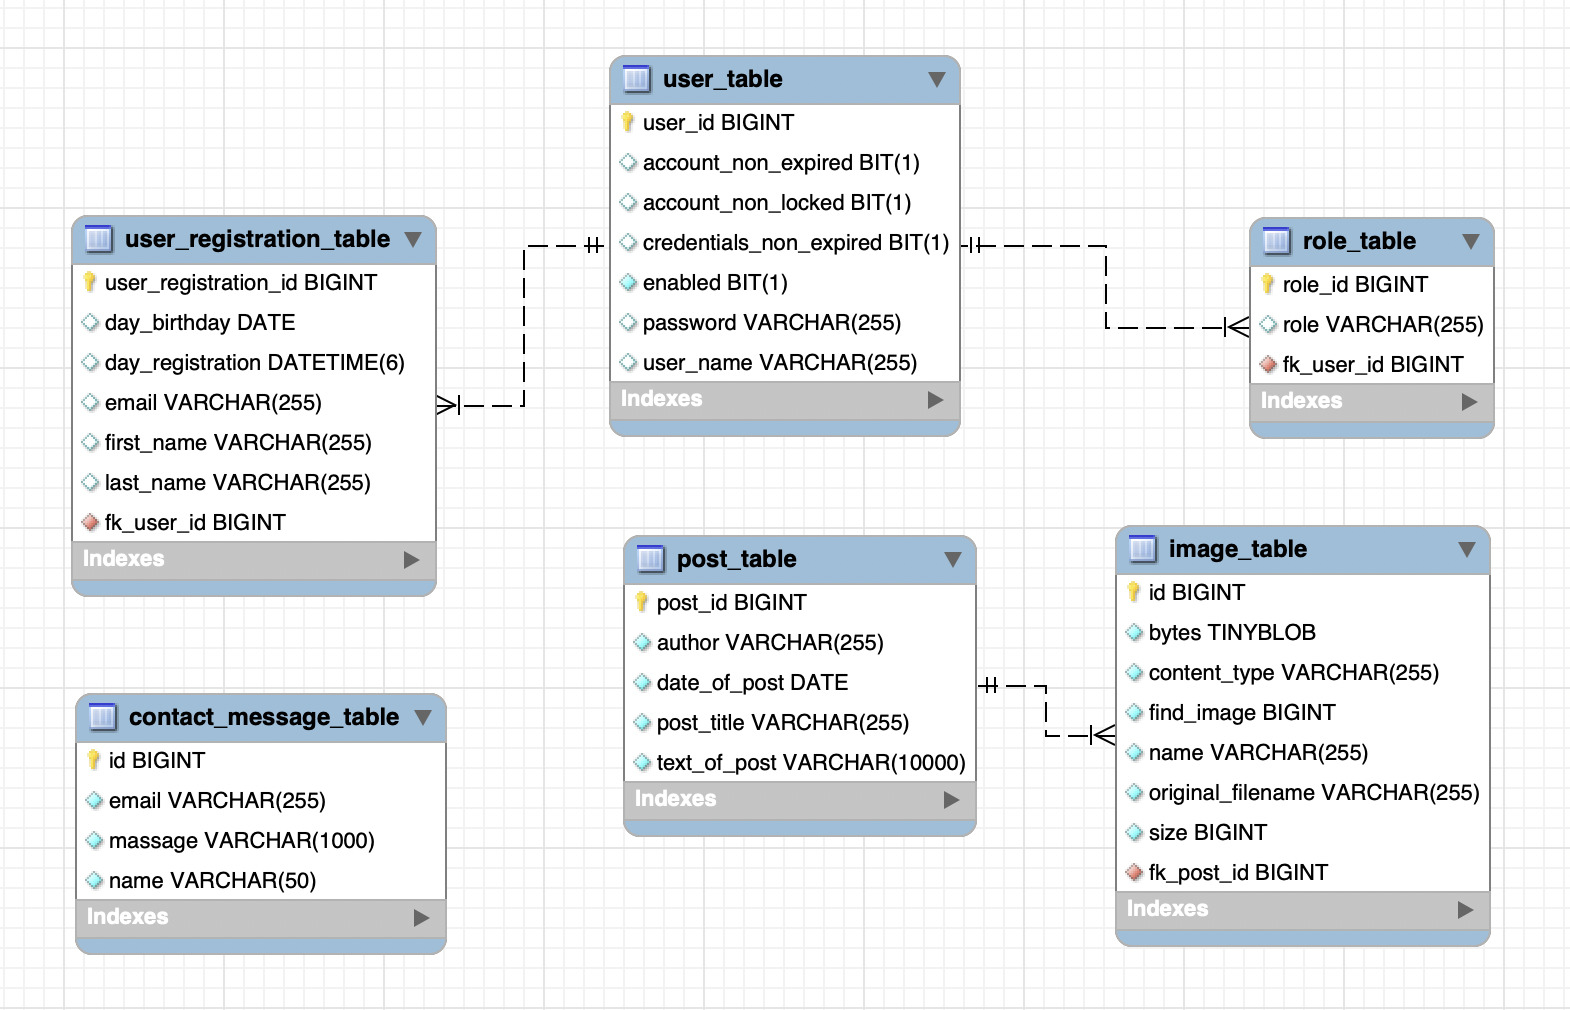
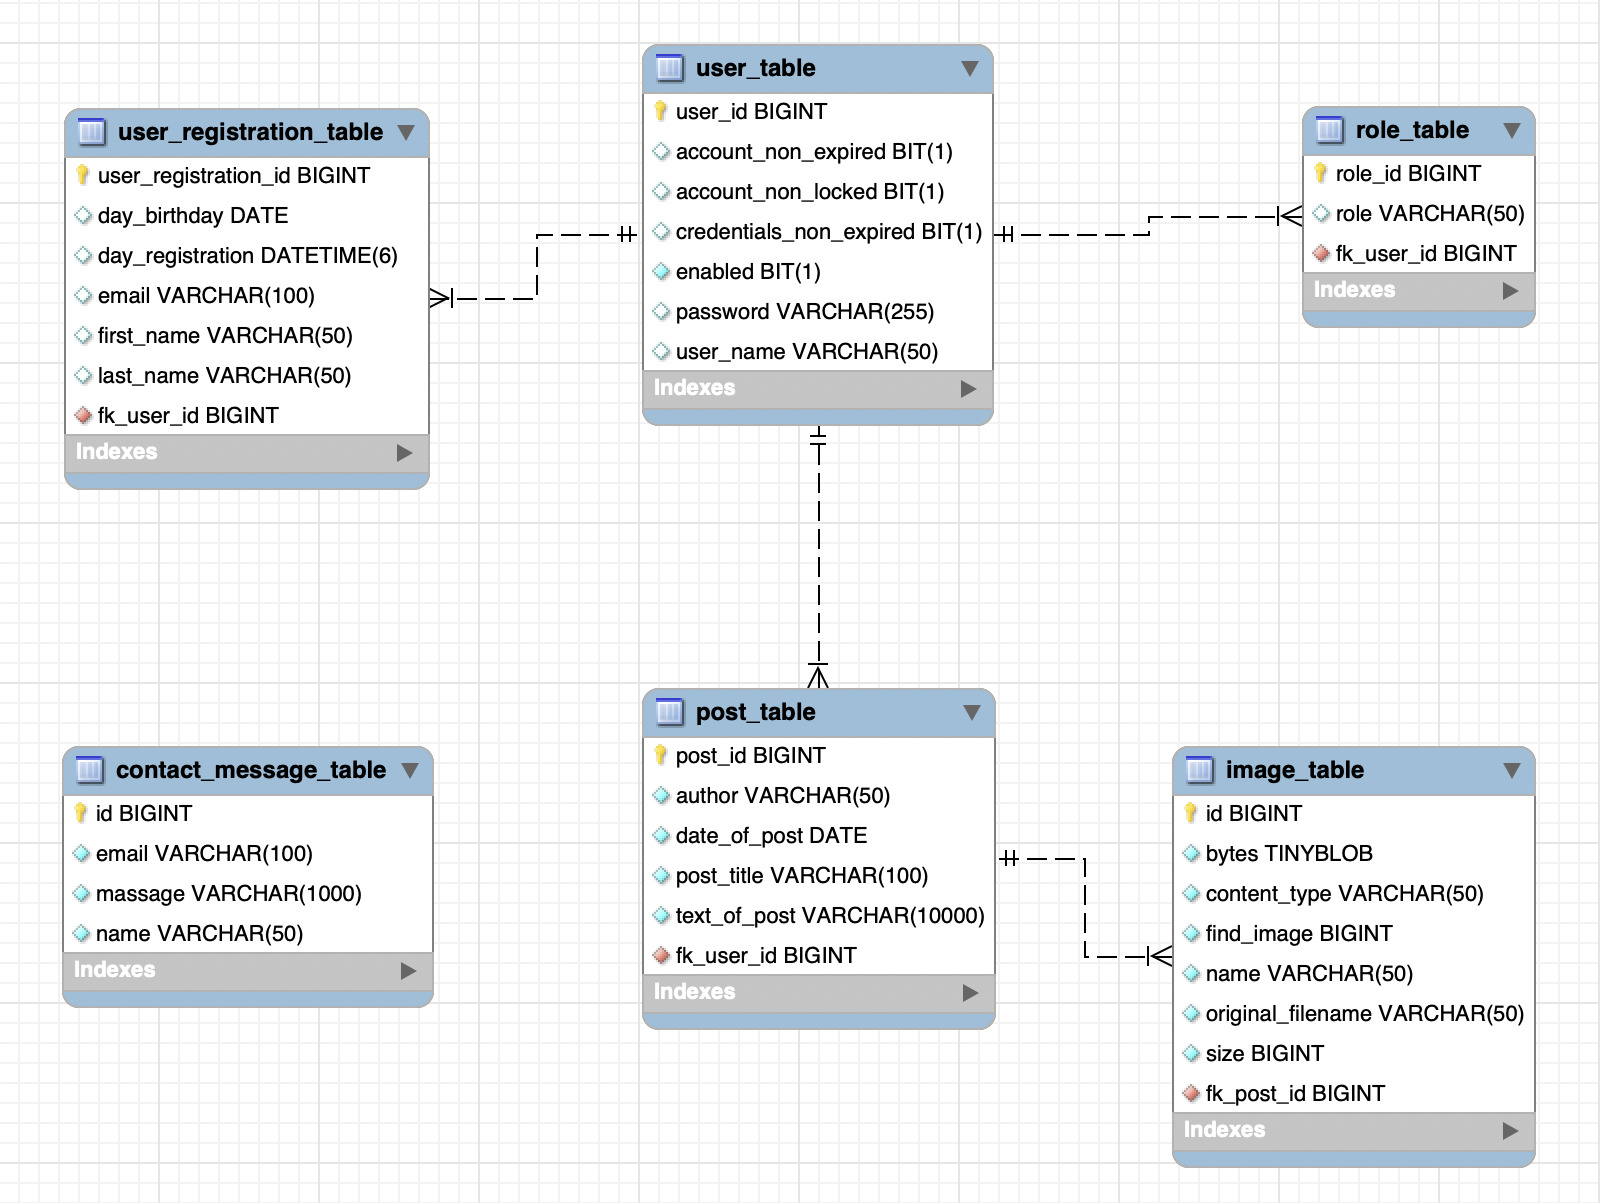
user_table <--> post_table, refactoring the project

diff --git a/src/main/resources/static/css/adminHomePage.css b/src/main/resources/static/css/adminHomePage.css
@@ -54,6 +54,7 @@ td {
 
 .image {
     max-width: 10vw;
+    min-width: 10vw;
 }
 
 /*--------------------------------------------------- add delete role */

diff --git a/src/main/resources/static/css/userHomePage.css b/src/main/resources/static/css/userHomePage.css
@@ -71,6 +71,7 @@ button {
 
 .image {
     max-width: 10vw;
+    min-width: 10vw;
 }
 
 table {

diff --git a/src/main/java/org/itstep/diploma/blog/post/service/PostServiceImp.java b/src/main/java/org/itstep/diploma/blog/post/service/PostServiceImp.java
@@ -1,10 +1,12 @@
-package org.itstep.diploma.post.service;
+package org.itstep.diploma.blog.post.service;
 
 import lombok.RequiredArgsConstructor;
+import org.itstep.diploma.blog.post.dto.PostDto;
+import org.itstep.diploma.blog.post.entity.Post;
+import org.itstep.diploma.blog.post.repository.PostRepository;
+import org.itstep.diploma.configs.security.entity.User;
+import org.itstep.diploma.configs.security.repository.UserRepository;
 import org.itstep.diploma.image.entity.Image;
-import org.itstep.diploma.post.dto.PostDto;
-import org.itstep.diploma.post.entity.Post;
-import org.itstep.diploma.post.repository.PostRepository;
 import org.springframework.security.core.Authentication;
 import org.springframework.stereotype.Service;
 import org.springframework.transaction.annotation.Transactional;
@@ -17,6 +19,7 @@ import java.util.Optional;
 @Service
 @RequiredArgsConstructor
 public class PostServiceImp implements PostService {
+	private final UserRepository userRepository;
 	private final PostRepository postRepository;
 
 	@Transactional
@@ -25,15 +28,22 @@ public class PostServiceImp implements PostService {
 						  PostDto postDto,
 						  Post post,
 						  Image image,
-						  Authentication authentication){
+						  Authentication authentication) {
 		String response;
 		try {
+			Optional<User> optionalUserByUsername = userRepository.findByUsername(authentication.getName());
+			if (optionalUserByUsername.isEmpty()) {
+				response = "YOU MUST RESTART YOUR ACCOUNT PLEASE";
+				return response;
+			}
+			User user = optionalUserByUsername.get();
 			post.setPostTitle(postDto.getPostTitle());
-			post.setAuthor(authentication.getName());
+			post.setAuthor(user.getUsername());
 			post.setTextOfPost(postDto.getTextOfPost());
 			post.setDateOfPost(LocalDate.now());
 
-			postRepository.save(post);
+			user.addPost(post);
+			userRepository.flush();
 
 			image.setName(multipartFile.getName());
 			image.setOriginalFilename(multipartFile.getOriginalFilename());

diff --git a/src/main/java/org/itstep/diploma/configs/security/entity/User.java b/src/main/java/org/itstep/diploma/configs/security/entity/User.java
@@ -4,6 +4,7 @@ import jakarta.persistence.*;
 import lombok.Data;
 import lombok.EqualsAndHashCode;
 import lombok.ToString;
+import org.itstep.diploma.blog.post.entity.Post;
 import org.itstep.diploma.registration.entity.UserRegistration;
 import org.springframework.context.annotation.Scope;
 import org.springframework.security.core.userdetails.UserDetails;
@@ -16,7 +17,7 @@ import java.util.Set;
 @Entity
 @Table(name = "user_table")
 @Data
-@EqualsAndHashCode(exclude = {"id", "authorities", "userRegistration"})
+@EqualsAndHashCode(exclude = {"id", "authorities", "userRegistration", "posts"})
 @ToString
 @Component
 @Scope(scopeName = "prototype")
@@ -25,7 +26,7 @@ public final class User implements UserDetails {
 	@GeneratedValue(strategy = GenerationType.IDENTITY)
 	@Column(name = "user_id")
 	private Long id;
-	@Column(name = "user_name", unique = true)
+	@Column(name = "user_name", length = 50, unique = true)
 	private String username;
 	private String password;
 	@Column(name = "account_non_expired")
@@ -39,6 +40,8 @@ public final class User implements UserDetails {
 	private Set<Role> authorities = new HashSet<>();
 	@OneToOne(mappedBy = "user", orphanRemoval = true, cascade = CascadeType.ALL, fetch = FetchType.LAZY)
 	private UserRegistration userRegistration;
+	@OneToMany(mappedBy = "user", cascade = {CascadeType.PERSIST, CascadeType.MERGE}, fetch = FetchType.LAZY)
+	private Set<Post> posts = new HashSet<>();
 
 	public void addRole(Role... roles) {
 		Arrays.stream(roles).forEach(role -> {
@@ -62,5 +65,15 @@ public final class User implements UserDetails {
 			userRegistration.setUser(null);
 			this.userRegistration = null;
 		}
+	}
+
+	public void addPost(Post post) {
+		posts.add(post);
+		post.setUser(this);
+	}
+
+	public void removePost(Post post) {
+		posts.remove(post);
+		post.setUser(null);
 	}
 }

diff --git a/src/main/java/org/itstep/diploma/blog/post/entity/Post.java b/src/main/java/org/itstep/diploma/blog/post/entity/Post.java
@@ -1,8 +1,9 @@
-package org.itstep.diploma.post.entity;
+package org.itstep.diploma.blog.post.entity;
 
 import jakarta.persistence.*;
 import lombok.Data;
 import lombok.EqualsAndHashCode;
+import org.itstep.diploma.configs.security.entity.User;
 import org.itstep.diploma.image.entity.Image;
 import org.springframework.stereotype.Component;
 
@@ -12,15 +13,15 @@ import java.time.LocalDate;
 @Table(name = "post_table")
 @Component
 @Data
-@EqualsAndHashCode(exclude = {"id", "image"})
+@EqualsAndHashCode(exclude = {"id", "image", "user"})
 public final class Post {
 	@Id
 	@GeneratedValue(strategy = GenerationType.IDENTITY)
 	@Column(name = "post_id")
 	private Long id;
-	@Column(name = "post_title", nullable = false)
+	@Column(name = "post_title", length = 100, nullable = false)
 	private String postTitle;
-	@Column(nullable = false)
+	@Column(length = 50, nullable = false)
 	private String author;
 	@Column(length = 10_000, name = "text_of_post", nullable = false)
 	private String textOfPost;
@@ -28,6 +29,9 @@ public final class Post {
 	private LocalDate dateOfPost;
 	@OneToOne(mappedBy = "post", orphanRemoval = true, cascade = CascadeType.ALL, fetch = FetchType.LAZY)
 	private Image image;
+	@ManyToOne
+	@JoinColumn(name = "fk_user_id", nullable = false)
+	private User user;
 
 	public void addImage(Image image) {
 		image.setPost(this);

diff --git a/src/main/java/org/itstep/diploma/image/entity/Image.java b/src/main/java/org/itstep/diploma/image/entity/Image.java
@@ -3,7 +3,7 @@ package org.itstep.diploma.image.entity;
 import jakarta.persistence.*;
 import lombok.Data;
 import lombok.EqualsAndHashCode;
-import org.itstep.diploma.post.entity.Post;
+import org.itstep.diploma.blog.post.entity.Post;
 import org.springframework.stereotype.Component;
 
 @Entity
@@ -15,11 +15,11 @@ public final class Image {
 	@Id
 	@GeneratedValue(strategy = GenerationType.IDENTITY)
 	private Long id;
-	@Column(nullable = false)
+	@Column(length = 50, nullable = false)
 	private String name;
-	@Column(name = "original_filename", nullable = false)
+	@Column(name = "original_filename", length = 50, nullable = false)
 	private String originalFilename;
-	@Column(name = "content_type", nullable = false)
+	@Column(name = "content_type", length = 50, nullable = false)
 	private String contentType;
 	@Column(nullable = false)
 	private Long size;

diff --git a/src/main/java/org/itstep/diploma/blog/post/controller/PostController.java b/src/main/java/org/itstep/diploma/blog/post/controller/PostController.java
@@ -1,10 +1,10 @@
-package org.itstep.diploma.post.controller;
+package org.itstep.diploma.blog.post.controller;
 
 import lombok.RequiredArgsConstructor;
 import org.itstep.diploma.image.entity.Image;
-import org.itstep.diploma.post.dto.PostDto;
-import org.itstep.diploma.post.entity.Post;
-import org.itstep.diploma.post.service.PostService;
+import org.itstep.diploma.blog.post.dto.PostDto;
+import org.itstep.diploma.blog.post.entity.Post;
+import org.itstep.diploma.blog.post.service.PostService;
 import org.springframework.security.core.Authentication;
 import org.springframework.stereotype.Controller;
 import org.springframework.ui.Model;

diff --git a/src/main/java/org/itstep/diploma/registration/entity/UserRegistration.java b/src/main/java/org/itstep/diploma/registration/entity/UserRegistration.java
@@ -19,13 +19,13 @@ public final class UserRegistration {
 	@GeneratedValue(strategy = GenerationType.IDENTITY)
 	@Column(name = "user_registration_id")
 	private Long id;
-	@Column(name = "first_name")
+	@Column(name = "first_name", length = 50)
 	private String firstName;
-	@Column(name = "last_name")
+	@Column(name = "last_name", length = 50)
 	private String lastName;
 	@Column(name = "day_birthday")
 	private LocalDate dayBirthday;
-	@Column(unique = true)
+	@Column(length = 100, unique = true)
 	private String email;
 	@Column(name = "day_registration")
 	private LocalDateTime dayRegistration;

diff --git a/src/main/java/org/itstep/diploma/blog/service/BlogServiceImp.java b/src/main/java/org/itstep/diploma/blog/service/BlogServiceImp.java
@@ -1,9 +1,9 @@
 package org.itstep.diploma.blog.service;
 
 import lombok.RequiredArgsConstructor;
-import org.itstep.diploma.post.dto.PostDto;
-import org.itstep.diploma.post.entity.Post;
-import org.itstep.diploma.post.repository.PostRepository;
+import org.itstep.diploma.blog.post.dto.PostDto;
+import org.itstep.diploma.blog.post.entity.Post;
+import org.itstep.diploma.blog.post.repository.PostRepository;
 import org.springframework.data.domain.Sort;
 import org.springframework.stereotype.Service;
 import org.springframework.transaction.annotation.Transactional;

diff --git a/src/main/java/org/itstep/diploma/blog/controller/BlogController.java b/src/main/java/org/itstep/diploma/blog/controller/BlogController.java
@@ -2,8 +2,8 @@ package org.itstep.diploma.blog.controller;
 
 import lombok.RequiredArgsConstructor;
 import org.itstep.diploma.blog.service.BlogService;
-import org.itstep.diploma.post.dto.PostDto;
-import org.itstep.diploma.post.entity.Post;
+import org.itstep.diploma.blog.post.dto.PostDto;
+import org.itstep.diploma.blog.post.entity.Post;
 import org.springframework.stereotype.Controller;
 import org.springframework.ui.Model;
 import org.springframework.web.bind.annotation.GetMapping;

diff --git a/src/main/java/org/itstep/diploma/blog/post/service/PostService.java b/src/main/java/org/itstep/diploma/blog/post/service/PostService.java
@@ -1,8 +1,8 @@
-package org.itstep.diploma.post.service;
+package org.itstep.diploma.blog.post.service;
 
 import org.itstep.diploma.image.entity.Image;
-import org.itstep.diploma.post.dto.PostDto;
-import org.itstep.diploma.post.entity.Post;
+import org.itstep.diploma.blog.post.dto.PostDto;
+import org.itstep.diploma.blog.post.entity.Post;
 import org.springframework.security.core.Authentication;
 import org.springframework.web.multipart.MultipartFile;
 

diff --git a/src/main/java/org/itstep/diploma/blog/post/repository/PostRepository.java b/src/main/java/org/itstep/diploma/blog/post/repository/PostRepository.java
@@ -1,6 +1,6 @@
-package org.itstep.diploma.post.repository;
+package org.itstep.diploma.blog.post.repository;
 
-import org.itstep.diploma.post.entity.Post;
+import org.itstep.diploma.blog.post.entity.Post;
 import org.springframework.data.jpa.repository.JpaRepository;
 
 public interface PostRepository extends JpaRepository<Post, Long> {
